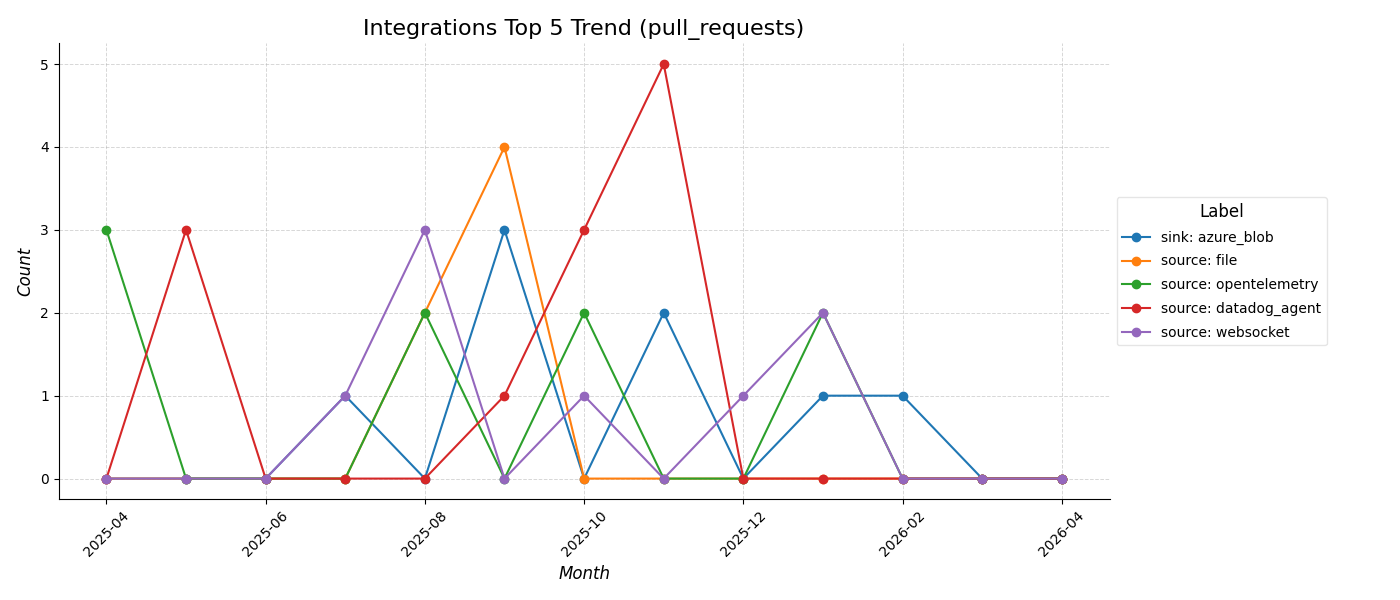
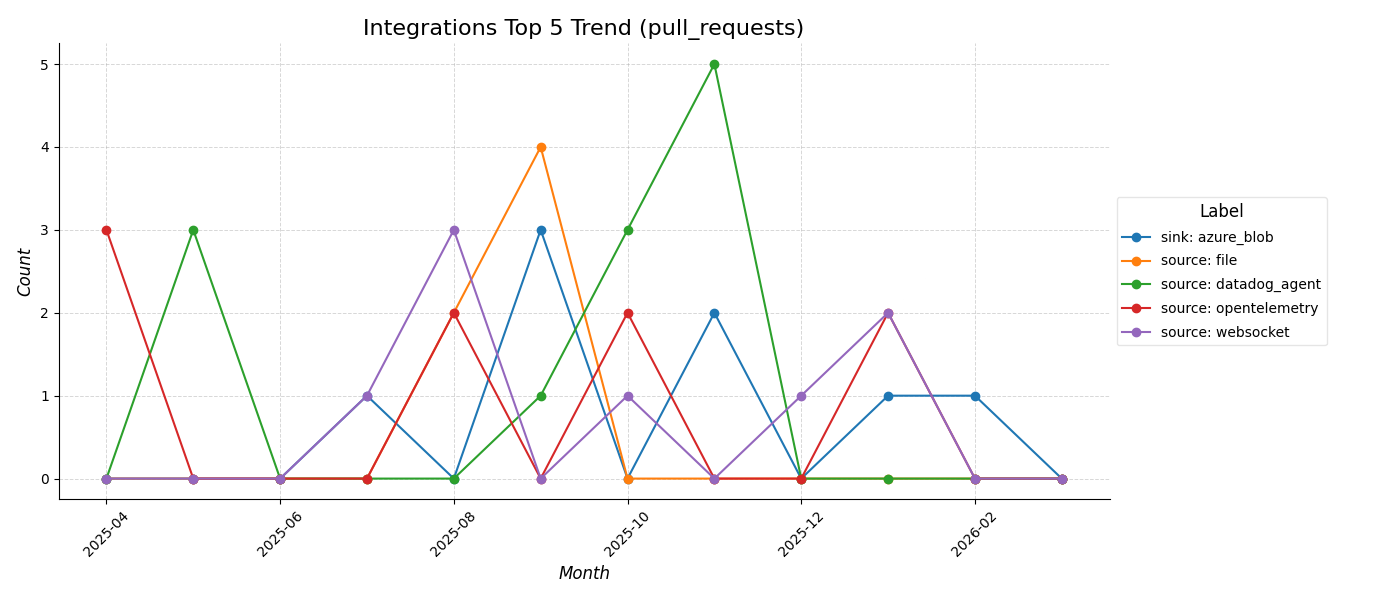
Exclude current incomplete month from monthly summary
Partial months (e.g. mid-April data) created a misleading downward
trend at the end of charts. Now the current month is excluded with a
warning printed to stderr.

diff --git a/src/commands/generate_summaries.rs b/src/commands/generate_summaries.rs
@@ -1,5 +1,6 @@
 use crate::config::Config;
 use anyhow::{Context, Result};
+use chrono::Utc;
 use rusqlite::Connection;
 use std::fs;
 use std::path::Path;
@@ -59,6 +60,9 @@ fn export_monthly_summary(
     };
     let where_and = where_and_owned.as_str();
 
+    let current_month = Utc::now().format("%Y-%m").to_string();
+    eprintln!("Warning: excluding current incomplete month ({current_month}) from monthly summary for {table}");
+
     // Step 1: get all distinct label names for this table
     let label_names: Vec<String> = {
         let mut stmt = conn.prepare(&format!(
@@ -105,6 +109,7 @@ fn export_monthly_summary(
         FROM events e
         LEFT JOIN label_counts lc ON e.issue_id = lc.issue_id
         GROUP BY e.month
+        HAVING e.month < '{current_month}'
         ORDER BY e.month"
     );
 
